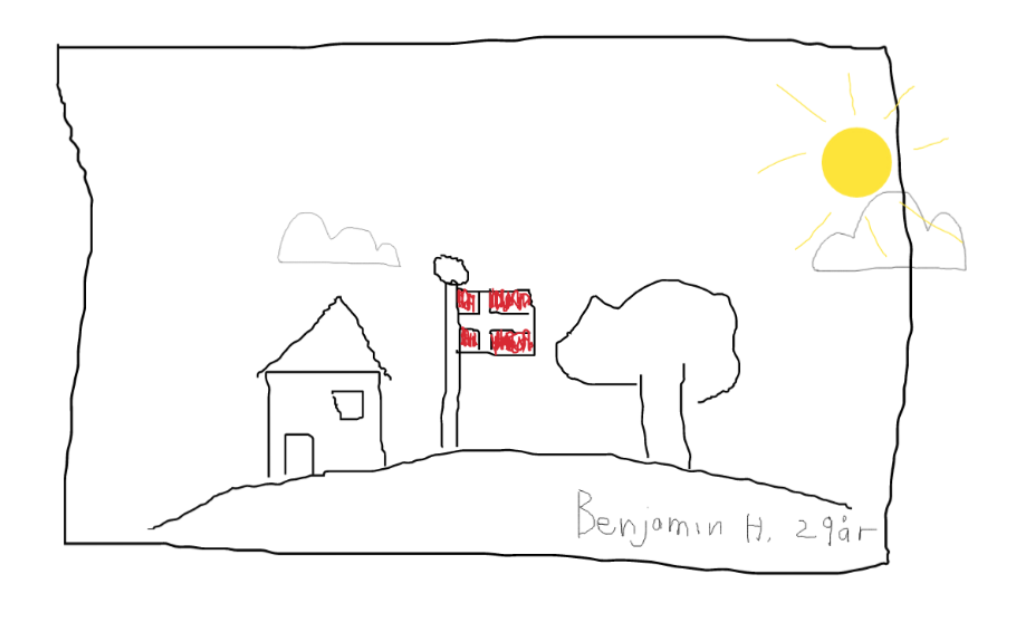
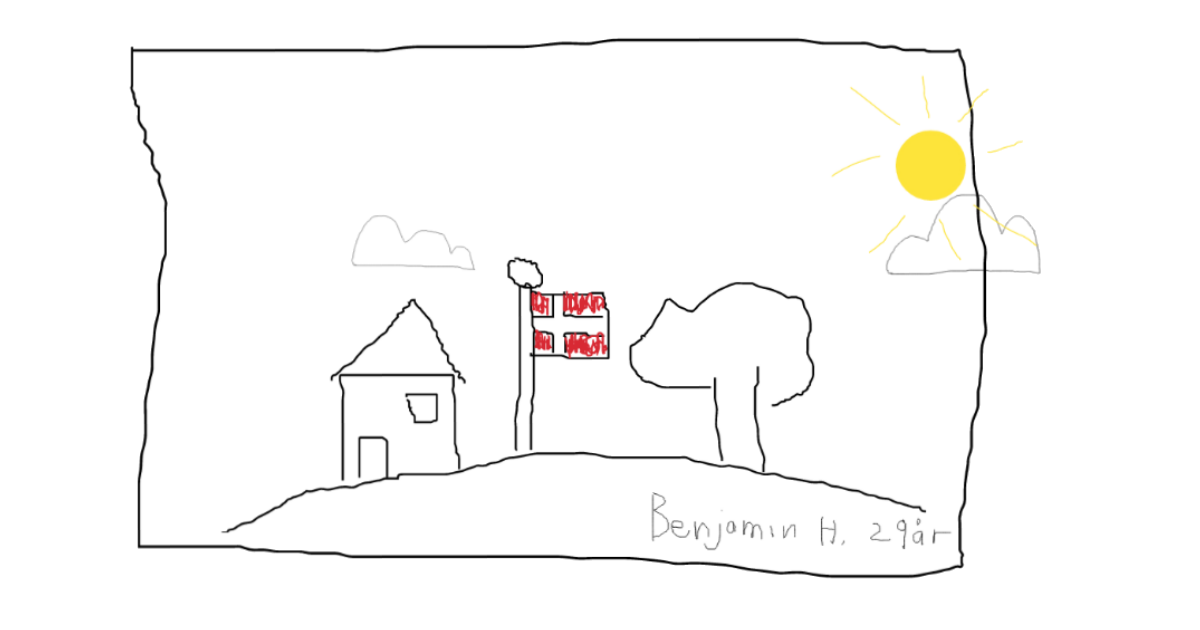
facebook share image

diff --git a/src/index.html b/src/index.html
@@ -26,8 +26,8 @@
         <meta property="og:site_name" content="Fødselsdage med solskin">
         <meta property="og:image" content="https://raw.githubusercontent.com/benna100/birthday-weather/gh-pages/src/images/birthday-svg.PNG">
         <meta property="og:image:secure_url" content="https://raw.githubusercontent.com/benna100/birthday-weather/gh-pages/src/images/birthday-svg.PNG">
-        <meta property="og:image:width" content="775">
-        <meta property="og:image:height" content="474">
+        <meta property="og:image:width" content="1200">
+        <meta property="og:image:height" content="630">
         <meta property="og:locale" content="da_DK" />
         <meta property="og:type" content="website" />
         <meta property="og:description" content="Se hvor mange føsdelsdage med solskin du har haft" />
